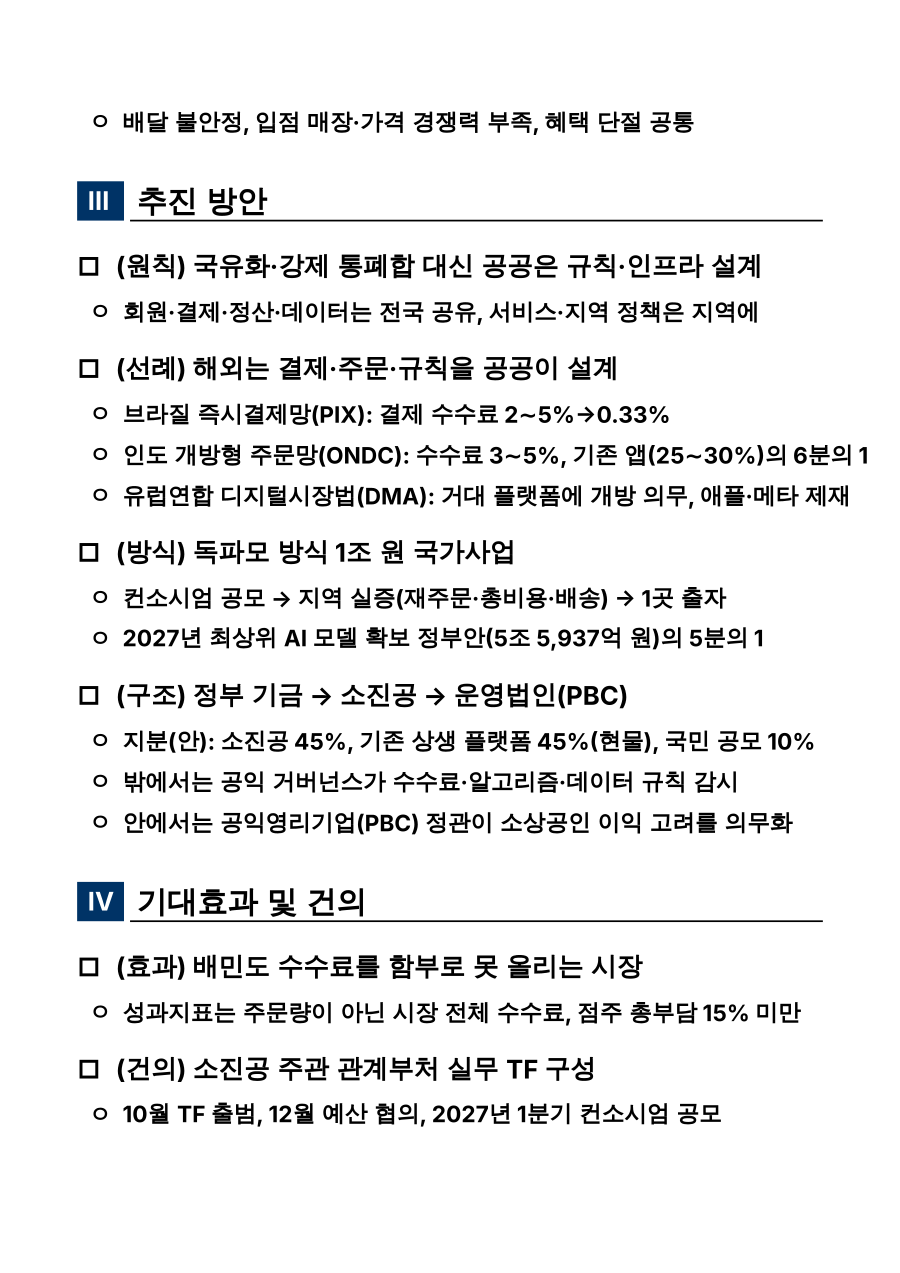
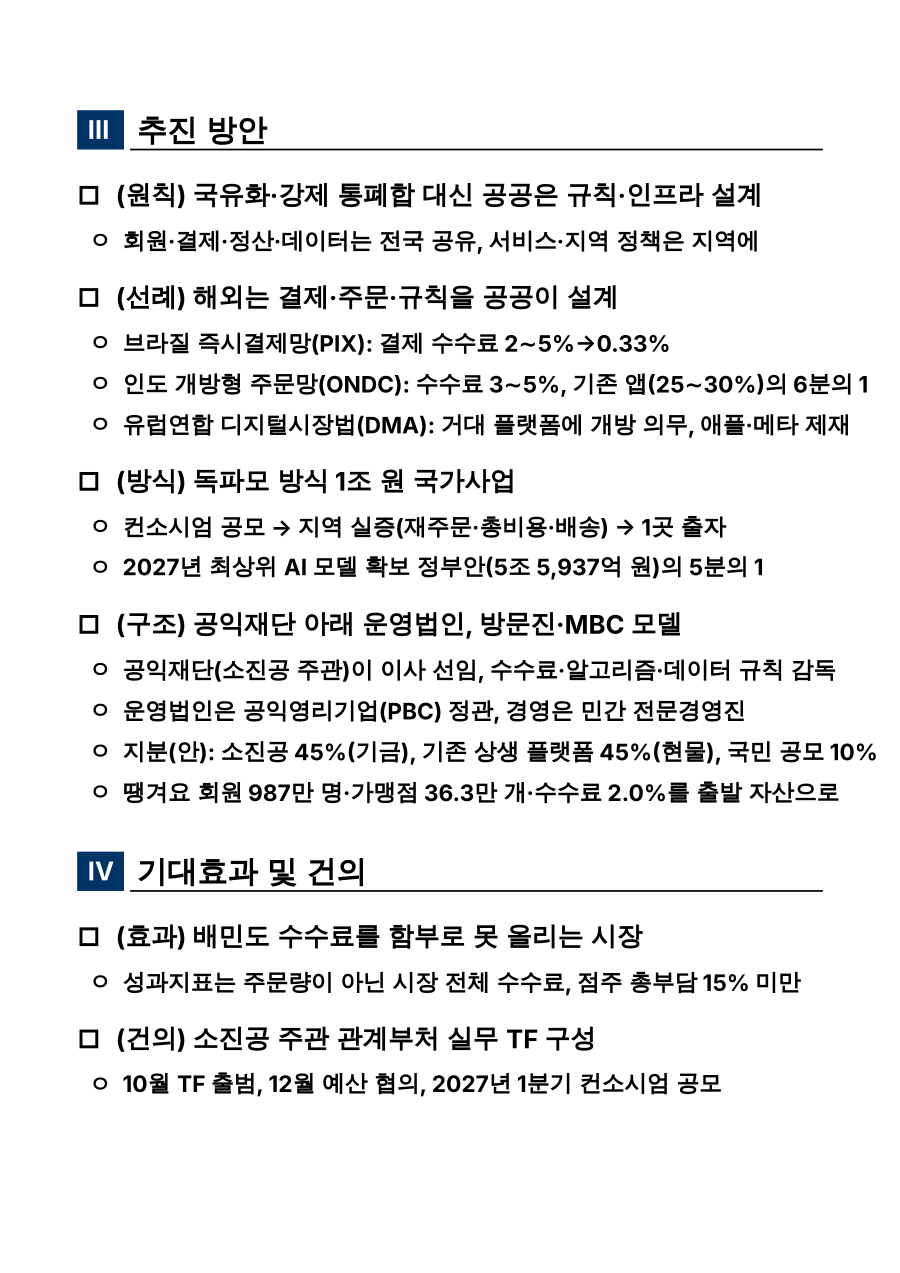
대통령 보고서: 방문진·MBC형 공익재단 구조, 땡겨요 수치 PPT 기준으로
Claude-Session: https://claude.ai/code/session_01BFErphuA4j3xYiicWyP4mv

Changed region(s): [[0.0622, 0.0613, 0.9644, 0.8885]]

diff --git a/out/국민생활통합플랫폼_대통령보고.md b/out/국민생활통합플랫폼_대통령보고.md
@@ -22,7 +22,6 @@
   - 2026. 7. 미국 우버와 22조 원 규모 매각 협상, 회수 수단은 수수료
 
 3. (분절) 전국 12개 공공앱이 각자 예산에 기대 고립
-  - 배달 불안정, 입점 매장·가격 경쟁력 부족, 혜택 단절 공통
 
 ## Ⅲ. 추진 방안
 
@@ -38,10 +37,11 @@
   - 컨소시엄 공모 → 지역 실증(재주문·총비용·배송) → 1곳 출자
   - 2027년 최상위 AI 모델 확보 정부안(5조 5,937억 원)의 5분의 1
 
-4. (구조) 정부 기금 → 소진공 → 운영법인(PBC)
-  - 지분(안): 소진공 45%, 기존 상생 플랫폼 45%(현물), 국민 공모 10%
-  - 밖에서는 공익 거버넌스가 수수료·알고리즘·데이터 규칙 감시
-  - 안에서는 공익영리기업(PBC) 정관이 소상공인 이익 고려를 의무화
+4. (구조) 공익재단 아래 운영법인, 방문진·MBC 모델
+  - 공익재단(소진공 주관)이 이사 선임, 수수료·알고리즘·데이터 규칙 감독
+  - 운영법인은 공익영리기업(PBC) 정관, 경영은 민간 전문경영진
+  - 지분(안): 소진공 45%(기금), 기존 상생 플랫폼 45%(현물), 국민 공모 10%
+  - 땡겨요 회원 987만 명·가맹점 36.3만 개·수수료 2.0%를 출발 자산으로
 
 ## Ⅳ. 기대효과 및 건의
 
